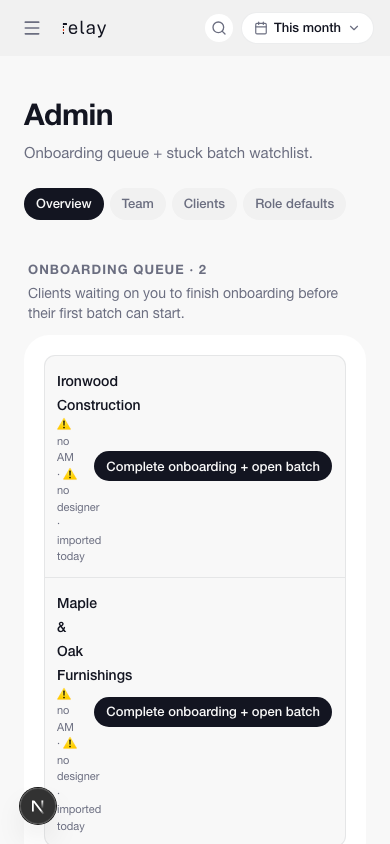
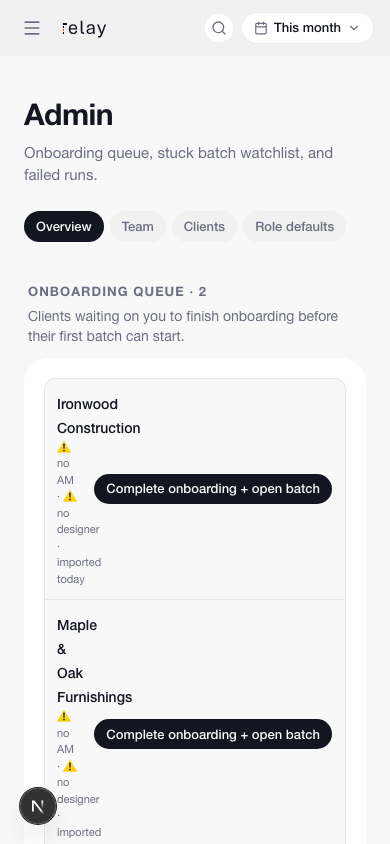
Audit V2 stabilization: Step in click race fix + admin visual baseline
Two follow ups after the first run of the new Step in behavioral spec
plus the admin Failed Runs section.

1. Step in click race

The Step in button reads `useOrganizationList` from Clerk and early
returns when isLoaded is false. Clicking before Clerk's client provider
hydrates makes the click a no op and the test stalls on waitForURL.
Wait for `expect(stepIn).toBeEnabled` first, then race the click with
the navigation via Promise.all(waitForURL, click).

2. Admin overview mobile visual baseline

The /admin page now has a "Failed runs" PageSection that did not exist
in yesterday's baseline. Regenerated the mobile baseline so the visual
diff project lands clean. Desktop and tablet baselines were already
within the 0.03 maxDiffPixelRatio tolerance.

Audit suite now lands at 138 / 138 / 0 failed with 1 skipped (the
RUN_REAL_PIPELINE=1 opt in test).

diff --git a/e2e/platform/step-in-behavior.spec.ts b/e2e/platform/step-in-behavior.spec.ts
@@ -54,10 +54,18 @@ test('platform: Step in switches sidebar org chip + scopes data to the target or
   }
 
   const stepIn = northwindCard.getByRole('button', { name: /Step in/i })
-  await stepIn.click()
+  // The Step in button waits for Clerk's useOrganizationList to load
+  // before doing anything (`if (!isLoaded || !setActive) return`). Clicking
+  // before Clerk's client provider hydrates makes the click a no op and
+  // the test stalls on waitForURL. Wait for enabled state first.
+  await expect(stepIn).toBeEnabled({ timeout: 10_000 })
 
-  // Land on /dashboard.
-  await page.waitForURL(/\/dashboard$/, { timeout: 10_000 })
+  // Race the click with the navigation so we do not lose the URL change
+  // to a fast push.
+  await Promise.all([
+    page.waitForURL(/\/dashboard$/, { timeout: 15_000 }),
+    stepIn.click(),
+  ])
 
   // Sidebar org chip reflects the new org. The OrgSwitcher dropdown
   // button renders activeAgencyName; the platform owner branch always